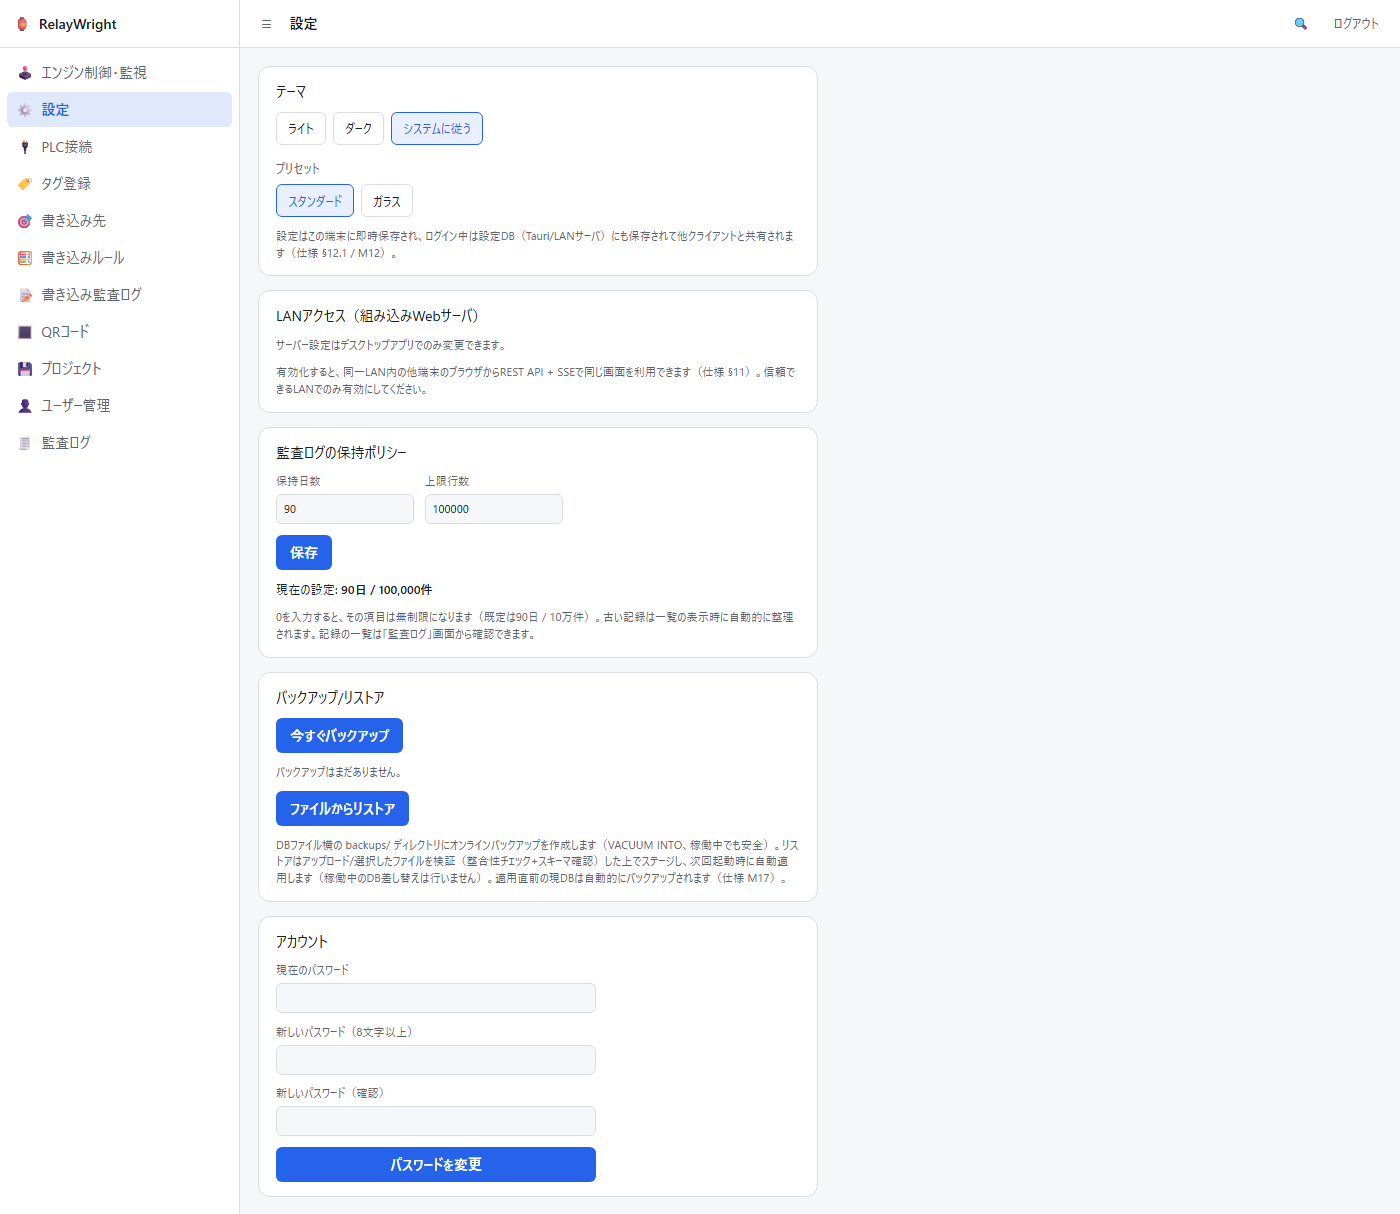
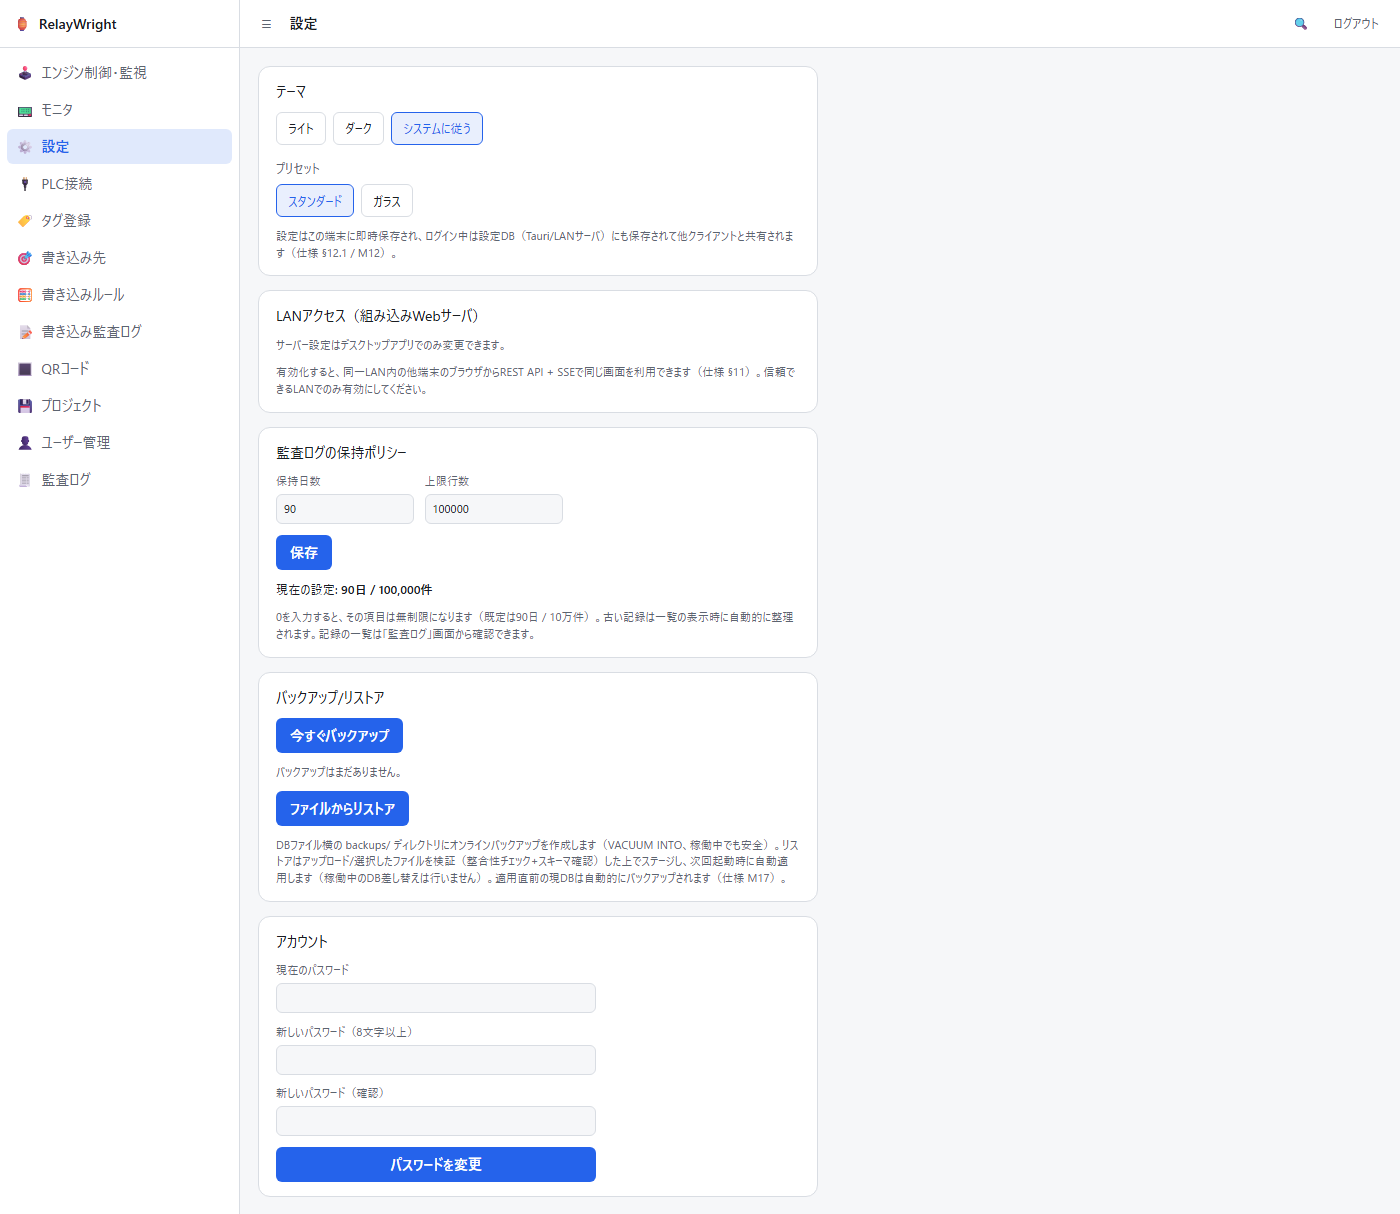
docs(relay-wright): 取扱説明書にモニタ節を追加＋スクショ一式更新・微修正
- manual.md: §4.2 モニタ（ツリー/約1秒更新のリアルタイム値/クリック即時
  書き込み/確認ダイアログなし・全書き込み監査/1CPU=1セッション共有と
  エンジン未起動時の挙動/接続編集は再構築後に反映）。以降の節を 4.3〜4.12
  に繰り下げ、サイドバー構成と権限表を現状に同期。
- capture-screenshots.mjs: monitor.png（グループ選択+BAD状態。SLMP
  シミュレータはテスト専用機能のためオフライン撮影と明記）を追加し、
  サイドバーが写る全スクショを再生成（ナビに「モニタ」追加のため）。
- monitor画面: 検証エラーをフィールドメッセージで表示（'validation
  failed' の握りつぶし解消）。書き込み監査ログ画面に manual_write の
  日本語ラベル「手動書き込み」を追加。
- broker/monitor: 接続編集は既存セッションに反映されない（エンジン再構築
  で反映）ことをドキュメント化。

検証: cargo fmt/clippy 0 warnings、cargo test --workspace 全パス、
pnpm check 0 errors、pnpm lint/prettier クリーン、pnpm e2e 4 passed。
ブラウザ実機検証（SLMPシミュレータ+relay-wright-serve）: ツリー選択→
リアルタイム値（スケーリング50.0℃/bit/文字列）→セルクリック→Enter書込
→トースト+即時反映（eng 75.5→raw 3020 を監査ログで確認）→Esc取消→
bit 0/1ボタン→不正値のインラインエラー→監査ログ画面表示、全ステップ確認。

Changed region(s): [[0.0, 0.061, 0.1843, 0.1829], [0.0, 0.1829, 0.0921, 0.3962]]

diff --git a/apps/relay-wright/src/routes/(app)/monitor/+page.svelte b/apps/relay-wright/src/routes/(app)/monitor/+page.svelte
@@ -75,7 +75,17 @@
 	});
 
 	function errorMessage(err: unknown): string {
-		return isProviderError(err) ? err.message : String(err);
+		if (isProviderError(err)) {
+			// A validation error's useful text lives in the field errors (the
+			// generic message is just "validation failed") - the backend puts
+			// the parse/range/SJIS reason there for manual writes.
+			if (err.body.kind === 'validation') {
+				const messages = err.body.field_errors.map((f) => f.message).filter(Boolean);
+				if (messages.length > 0) return messages.join(' / ');
+			}
+			return err.message;
+		}
+		return String(err);
 	}
 
 	// ツリー（接続・グループ一覧）の読み込み。1回だけ。

diff --git a/apps/relay-wright/src/lib/banto/writeAuditLogAdmin.ts b/apps/relay-wright/src/lib/banto/writeAuditLogAdmin.ts
@@ -41,7 +41,10 @@ export interface WriteAuditLogRow {
 	writeTargetId: number | null;
 	targetValueWritten: number | null;
 	actorUsername: string | null;
-	/** One of `rule_fire`/`arm`/`disarm`/`dry_run_toggle`/`rate_limit_tripped`. */
+	/**
+	 * One of `rule_fire`/`arm`/`disarm`/`dry_run_toggle`/`rate_limit_tripped`/
+	 * `manual_write`（タグモニタのワンショット手動書き込み, feature/tag-monitor）.
+	 */
 	action: string;
 	/**
 	 * One of `ok`/`failed`/`suppressed_disarmed`/`suppressed_rate_limited`/

diff --git a/apps/relay-wright/src/routes/(app)/write-audit-log/+page.svelte b/apps/relay-wright/src/routes/(app)/write-audit-log/+page.svelte
@@ -40,7 +40,9 @@
 		arm: 'アーム',
 		disarm: 'ディスアーム',
 		dry_run_toggle: 'ドライラン切替',
-		rate_limit_tripped: 'レート制限トリップ'
+		rate_limit_tripped: 'レート制限トリップ',
+		// feature/tag-monitor: モニタ画面からのワンショット手動書き込み。
+		manual_write: '手動書き込み'
 	};
 
 	const resultLabels: Record<string, string> = {

diff --git a/apps/relay-wright/core/tests/monitor_integration.rs b/apps/relay-wright/core/tests/monitor_integration.rs
@@ -27,7 +27,6 @@ use sqlx::SqlitePool;
 struct Fixture {
     pool: SqlitePool,
     sim: Simulator,
-    conn_id: i64,
     group_id: i64,
     tags: TagService,
 }
@@ -65,7 +64,6 @@ impl Fixture {
             tags: TagService::new(pool.clone()),
             pool,
             sim,
-            conn_id: conn.id,
             group_id: group.id,
         }
     }
@@ -121,9 +119,8 @@ impl Fixture {
 /// deadline elapses; panics with the last snapshot on timeout.
 async fn read_group_until_good(control: &EngineControl, group_id: i64) -> Vec<MonitorValue> {
     let deadline = tokio::time::Instant::now() + Duration::from_secs(5);
-    let mut last: Vec<MonitorValue> = Vec::new();
     loop {
-        last = control
+        let last = control
             .monitor_group_read(group_id)
             .await
             .expect("monitor_group_read");
@@ -159,7 +156,14 @@ async fn write_until_ok(control: &EngineControl, tag_id: i64, value: &str, actor
 
 async fn audit_rows(
     pool: &SqlitePool,
-) -> Vec<(String, String, Option<String>, Option<i64>, Option<f64>, Option<String>)> {
+) -> Vec<(
+    String,
+    String,
+    Option<String>,
+    Option<i64>,
+    Option<f64>,
+    Option<String>,
+)> {
     sqlx::query_as(
         "SELECT action, result, actor_username, source_tag_id, target_value_written, detail \
          FROM write_audit_log ORDER BY id",
@@ -192,13 +196,16 @@ async fn monitor_group_read_returns_display_ready_values_over_the_engine_session
     let plain = f.tag("生値", "D110", "u16", None, None, None, 0).await;
     // ビット, 文字列 (4 words = 8 SJIS bytes).
     let bit = f.tag("運転", "M10", "bit", None, None, None, 0).await;
-    let text = f.tag("状態", "D300", "string", Some(4), None, None, 0).await;
+    let text = f
+        .tag("状態", "D300", "string", Some(4), None, None, 0)
+        .await;
 
     f.sim.set_word(SlmpDevice::D, 100, 2000);
     f.sim.set_word(SlmpDevice::D, 110, 1234);
     f.sim.set_bit(SlmpDevice::M, 10, true);
     // "OK" in SJIS, low byte first within the word: 0x4B4F.
-    f.sim.set_word(SlmpDevice::D, 300, u16::from_le_bytes([b'O', b'K']));
+    f.sim
+        .set_word(SlmpDevice::D, 300, u16::from_le_bytes([b'O', b'K']));
 
     let (engine, control) = Engine::start(
         f.pool.clone(),
@@ -278,7 +285,9 @@ async fn manual_write_lands_while_disarmed_and_is_audited() {
             1,
         )
         .await;
-    let text = f.tag("文字", "D310", "string", Some(4), None, None, 0).await;
+    let text = f
+        .tag("文字", "D310", "string", Some(4), None, None, 0)
+        .await;
     let bit = f.tag("ビット", "M20", "bit", None, None, None, 0).await;
 
     let (engine, control) = Engine::start(
@@ -443,7 +452,9 @@ async fn invalid_manual_write_values_error_and_are_audited_failed() {
     let f = Fixture::new().await;
     let numeric = f.tag("数値", "D600", "u16", None, None, None, 0).await;
     let bit = f.tag("ビット", "M30", "bit", None, None, None, 0).await;
-    let text = f.tag("文字", "D610", "string", Some(2), None, None, 0).await;
+    let text = f
+        .tag("文字", "D610", "string", Some(2), None, None, 0)
+        .await;
 
     let (engine, control) = Engine::start(f.pool.clone(), Vec::new(), EngineConfig::default())
         .await
@@ -483,7 +494,10 @@ async fn invalid_manual_write_values_error_and_are_audited_failed() {
     // reaches the broker, comes back per-request Bad, and errors clearly.
     let deadline = tokio::time::Instant::now() + Duration::from_secs(5);
     let range_err = loop {
-        match control.monitor_tag_write(numeric, "70000", Some("debugger")).await {
+        match control
+            .monitor_tag_write(numeric, "70000", Some("debugger"))
+            .await
+        {
             Ok(()) => panic!("out-of-range write must not land"),
             Err(e) if e.to_string().contains("未接続") => {
                 assert!(
@@ -518,8 +532,7 @@ async fn invalid_manual_write_values_error_and_are_audited_failed() {
         "parse failures + the range rejection must all be audited: {rows:?}"
     );
     assert!(
-        rows.iter()
-            .all(|r| !(r.0 == "manual_write" && r.1 == "ok")),
+        rows.iter().all(|r| !(r.0 == "manual_write" && r.1 == "ok")),
         "no manual write ever succeeded here: {rows:?}"
     );
 

diff --git a/apps/relay-wright/core/src/engine/monitor.rs b/apps/relay-wright/core/src/engine/monitor.rs
@@ -14,6 +14,11 @@
 //! after engine start, or on an engine built with a connection subset) gets
 //! one spawned ON DEMAND and kept - see `SessionDirectory::ensure_connection`.
 //!
+//! A session's host/port are captured when its task spawns, so EDITING a
+//! connection's host/port does not re-dial an already-spawned session - the
+//! same "compiled at engine start" semantics every other connection consumer
+//! has. An engine reload (or app restart) picks up the new coordinates.
+//!
 //! ## Deliberately relaxed safety (debug app - user's explicit choice)
 //!
 //! Manual writes have NO arm gate, NO rate limiter, and NO dry-run
@@ -208,10 +213,14 @@ impl EngineControl {
             BatchWriteRequest::String(_) => None,
         };
 
-        let row = AuditRow::new(AuditAction::ManualWrite, AuditResult::Failed, MANUAL_WRITE_LABEL)
-            .with_source(source_tag_id, None)
-            .with_actor(actor)
-            .with_detail(detail.to_string());
+        let row = AuditRow::new(
+            AuditAction::ManualWrite,
+            AuditResult::Failed,
+            MANUAL_WRITE_LABEL,
+        )
+        .with_source(source_tag_id, None)
+        .with_actor(actor)
+        .with_detail(detail.to_string());
         let row = AuditRow {
             target_value_written: written_f64,
             ..row
@@ -313,8 +322,7 @@ impl EngineControl {
         }
 
         if !readable.is_empty() {
-            let requests: Vec<BatchReadRequest> =
-                readable.iter().map(|(_, _, req)| *req).collect();
+            let requests: Vec<BatchReadRequest> = readable.iter().map(|(_, _, req)| *req).collect();
             let handle = self
                 .sessions
                 .ensure_connection(&connection)
@@ -381,8 +389,17 @@ impl EngineControl {
         .fetch_optional(&self.pool)
         .await
         .map_err(banto_storage::storage_error)?;
-        let Some((name, address_raw, data_type, string_length, raw_lo, raw_hi, eng_lo, eng_hi, connection_id)) =
-            row
+        let Some((
+            name,
+            address_raw,
+            data_type,
+            string_length,
+            raw_lo,
+            raw_hi,
+            eng_lo,
+            eng_hi,
+            connection_id,
+        )) = row
         else {
             return Err(BantoError::NotFound {
                 resource: "tags".to_string(),
@@ -426,10 +443,8 @@ impl EngineControl {
                         "0" | "false" | "off" => false,
                         "1" | "true" | "on" => true,
                         _ => {
-                            return Err(
-                                "bit タグには 0/1（または true/false）を入力してください"
-                                    .to_string(),
-                            )
+                            return Err("bit タグには 0/1（または true/false）を入力してください"
+                                .to_string())
                         }
                     };
                     Ok(BatchWriteRequest::Numeric(WriteRequest {
@@ -456,8 +471,7 @@ impl EngineControl {
                             let raw = unscale(eng, s);
                             if !raw.is_finite() {
                                 return Err(
-                                    "スケーリングの工業値スパンが0のため書き込めません"
-                                        .to_string(),
+                                    "スケーリングの工業値スパンが0のため書き込めません".to_string()
                                 );
                             }
                             raw

diff --git a/apps/relay-wright/core/src/db.rs b/apps/relay-wright/core/src/db.rs
@@ -937,21 +937,28 @@ mod tests {
         )
         .execute(&pool)
         .await;
-        assert!(rejected.is_err(), "pre-upgrade CHECK must reject manual_write");
+        assert!(
+            rejected.is_err(),
+            "pre-upgrade CHECK must reject manual_write"
+        );
 
         run_migrations(&pool).await.expect("upgrade should apply");
 
         // Every row survived, ids and ts intact.
-        let rows: Vec<(i64, String, String, String)> = sqlx::query_as(
-            "SELECT id, ts, action, result FROM write_audit_log ORDER BY id",
-        )
-        .fetch_all(&pool)
-        .await
-        .unwrap();
+        let rows: Vec<(i64, String, String, String)> =
+            sqlx::query_as("SELECT id, ts, action, result FROM write_audit_log ORDER BY id")
+                .fetch_all(&pool)
+                .await
+                .unwrap();
         assert_eq!(rows.len(), 2);
         assert_eq!(
             rows[0],
-            (5, "2026-01-02 03:04:05".into(), "rule_fire".into(), "ok".into())
+            (
+                5,
+                "2026-01-02 03:04:05".into(),
+                "rule_fire".into(),
+                "ok".into()
+            )
         );
         assert_eq!(rows[1].0, 9);
         assert_eq!(rows[1].2, "arm");
@@ -968,7 +975,10 @@ mod tests {
         .expect("'manual_write' must pass the rebuilt CHECK");
 
         // Both indexes were recreated under their original names.
-        for index in ["idx_write_audit_log_ts", "idx_write_audit_log_write_rule_id"] {
+        for index in [
+            "idx_write_audit_log_ts",
+            "idx_write_audit_log_write_rule_id",
+        ] {
             let exists: Option<String> = sqlx::query_scalar(
                 "SELECT name FROM sqlite_master WHERE type = 'index' AND name = ?",
             )

diff --git a/apps/relay-wright/src-tauri/src/lib.rs b/apps/relay-wright/src-tauri/src/lib.rs
@@ -3710,7 +3710,9 @@ mod tests {
             .expect("create viewer");
         *state.auth.lock().expect("auth mutex poisoned") = Some(viewer);
 
-        let err = monitor_tag_write_body(&state, tag_id, "1").await.unwrap_err();
+        let err = monitor_tag_write_body(&state, tag_id, "1")
+            .await
+            .unwrap_err();
         assert!(matches!(err, BantoError::Forbidden));
 
         assert_eq!(write_audit_count(&pool, "manual_write", "ok").await, 0);
@@ -3746,7 +3748,9 @@ mod tests {
             !current_engine_control(&state).await.unwrap().is_armed(),
             "the engine stays disarmed - manual writes need no arm"
         );
-        let err = monitor_tag_write_body(&state, tag_id, "42").await.unwrap_err();
+        let err = monitor_tag_write_body(&state, tag_id, "42")
+            .await
+            .unwrap_err();
         assert!(
             err.to_string().contains("未接続"),
             "closed port -> the broker's fail-fast disconnect error, got {err}"

diff --git a/apps/relay-wright/core/src/rest.rs b/apps/relay-wright/core/src/rest.rs
@@ -5008,12 +5008,9 @@ mod tests {
             .await
             .unwrap();
         assert!(
-            entries
-                .rows
-                .iter()
-                .any(|r| r.action == "denied"
-                    && r.resource == "monitor"
-                    && r.actor_username.as_deref() == Some("viewer")),
+            entries.rows.iter().any(|r| r.action == "denied"
+                && r.resource == "monitor"
+                && r.actor_username.as_deref() == Some("viewer")),
             "expected a denied monitor entry, got {:?}",
             entries.rows
         );

diff --git a/apps/relay-wright/core/src/engine/broker.rs b/apps/relay-wright/core/src/engine/broker.rs
@@ -399,7 +399,8 @@ impl SessionDirectory {
             port,
             ..SlmpConfig::default()
         };
-        let (handle, task) = spawn_task(conn.id, config, self.backoff, self.shutdown_tx.subscribe());
+        let (handle, task) =
+            spawn_task(conn.id, config, self.backoff, self.shutdown_tx.subscribe());
         handles.insert(conn.id, handle.clone());
         self.tasks
             .lock()
